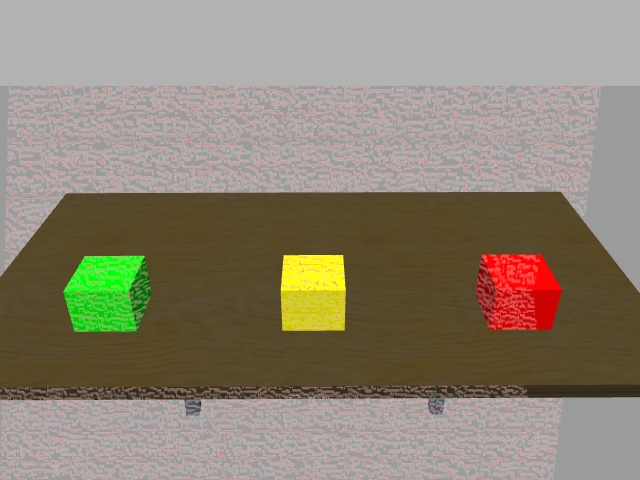
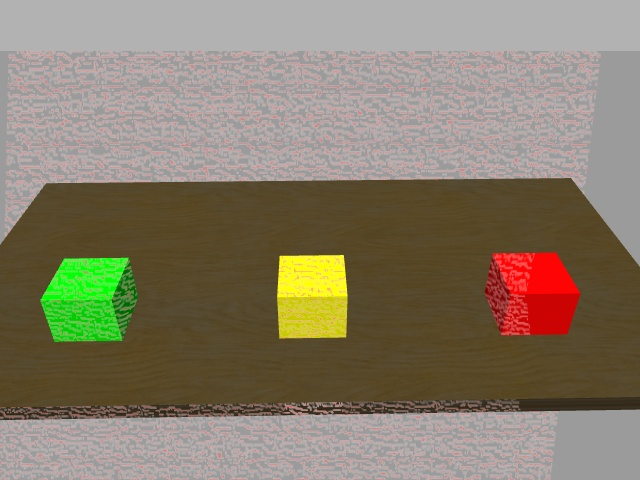
真上から見た飾り画像を生成

diff --git a/pix2pix/make_deco_imgs.py b/pix2pix/make_deco_imgs.py
@@ -1,39 +1,50 @@
-"""
-('lt: ', 1932.3476365247489, 998.372717774108, 1784.875143483393)
-('rb: ', 1927.2403589830274, -1261.042495069667, 39.911393436548224)
-('head_angle: ', 29.662153031493034)
-('look_at_point: ', x: 1180.10895533
-y: -181.063904022
-z: 654.224529006)
+"""s
+... thinking decoration ...
+Back Img info->
+('lt: ', 1932.3653923846878, 998.3951007831643, 1784.9823432069206)
+('rb: ', 1927.2010199713968, -1260.9923844731593, 40.04882008628147)
+('head_angle: ', 32.31637692749683)
+('look_at_point: ', x: 1068.30170515
+y: -172.769141042
+z: 653.992004864)
+('look_at_uv: ', x: 312.801434704
+y: 292.505059252
+z: 0.0)
+('dimg_rect_pos: ', array([x: 2147.39202783
+y: 672.95587784
+z: 1076.35317635,
+       x: 886.685198837
+y: -1078.03702755
+z: 4.57065396599], dtype=object))
 = decos_pos
-[x: 1117.07664006
-y: -678.027945277
-z: 654.235697998
- x: 1253.48854073
-y: 310.8842684
-z: 654.134191761
- x: 1185.31627926
-y: -182.925776119
-z: 654.475951655]
+[x: 1006.33938725
+y: -667.517274584
+z: 653.77801336
+ x: 1136.28470115
+y: 321.170410664
+z: 653.814447653
+ x: 1071.88769772
+y: -173.292084519
+z: 653.996440072]
 = decos_dims
-[x: 211.495101452
-y: 210.085630417
-z: 89.1058444977
- x: 211.82730794
-y: 208.705306053
-z: 89.1456007957
- x: 151.7547369
-y: 152.527987957
-z: 89.241206646]
-= decos_req_uv
+[x: 211.286127567
+y: 207.858324051
+z: 89.3031358719
+ x: 211.575657129
+y: 207.611441612
+z: 89.3883705139
+ x: 151.288926601
+y: 152.40624547
+z: 89.7635817528]
+= decos_rec_uv
 [ header: 
   seq: 0
   stamp: 
     secs: 0
     nsecs:         0
   frame_id: ''
-xs: [463.5361633300781, 541.403564453125, 490.3731384277344, 575.0953979492188]
-ys: [251.89376831054688, 245.59803771972656, 332.85540771484375, 324.47265625]
+xs: [473.3926696777344, 555.76123046875, 510.2060852050781, 603.1673583984375]
+ys: [250.5164794921875, 243.0118408203125, 308.7667541503906, 299.02618408203125]
 type: 0
 label: ''
 fit_line: False
@@ -44,8 +55,8 @@ fit_line_ransac: False
     secs: 0
     nsecs:         0
   frame_id: ''
-xs: [70.7800521850586, 155.0377655029297, 59.7741813659668, 152.2384796142578]
-ys: [253.37588500976562, 247.0721435546875, 334.9308166503906, 326.5277404785156]
+xs: [49.51151657104492, 140.52293395996094, 26.32427215576172, 130.5523681640625]
+ys: [255.45819091796875, 247.78318786621094, 315.3082580566406, 305.3094787597656]
 type: 0
 label: ''
 fit_line: False
@@ -56,8 +67,8 @@ fit_line_ransac: False
     secs: 0
     nsecs:         0
   frame_id: ''
-xs: [279.44622802734375, 339.48834228515625, 286.2708435058594, 349.6729736328125]
-ys: [258.05303955078125, 253.30751037597656, 324.44281005859375, 318.5474853515625]
+xs: [275.5888671875, 340.2502746582031, 281.9150390625, 352.7976379394531]
+ys: [259.103271484375, 253.34063720703125, 301.0009460449219, 294.0481872558594]
 type: 0
 label: ''
 fit_line: False
@@ -70,23 +81,25 @@ import numpy as np
 
 class MakeDecoImgs(object):
     def __init__(self):
-        self.bimg_lt_3d_pos = [1932.3476365247489, 998.372717774108, 1784.875143483393]
-        self.bimg_rb_3d_pos = [1927.2403589830274, -1261.042495069667, 39.911393436548224]
-        self.head_angle = 29.662153031493034
-        self.look_at_point = [1180.10895533, -181.063904022, 654.224529006]
-        self.deco_3d_pos = [[1117.07664006, -678.027945277, 654.235697998],
-                            [1253.48854073, 310.8842684, 654.134191761],
-                            [1185.31627926, -182.925776119, 654.475951655]]
-        self.decos_3d_dims = [[211.495101452, 210.085630417, 89.1058444977],
-                              [211.82730794, 208.705306053, 89.1456007957],
-                              [151.7547369, 152.527987957, 89.241206646]]
-
-        self.deco0_xs = [463.5361633300781, 541.403564453125, 490.3731384277344, 575.0953979492188]
-        self.deco0_ys = [251.89376831054688, 245.59803771972656, 332.85540771484375, 324.47265625]
-        self.deco1_xs = [70.7800521850586, 155.0377655029297, 59.7741813659668, 152.2384796142578]
-        self.deco1_ys = [253.37588500976562, 247.0721435546875, 334.9308166503906, 326.5277404785156]
-        self.deco2_xs = [279.44622802734375, 339.48834228515625, 286.2708435058594, 349.6729736328125]
-        self.deco2_ys = [258.05303955078125, 253.30751037597656, 324.44281005859375, 318.5474853515625]
+        self.bimg_lt_3d_pos = [1932.3653923846878, 998.3951007831643, 1784.9823432069206]
+        self.bimg_rb_3d_pos = [1927.2010199713968, -1260.9923844731593, 40.04882008628147]
+        self.head_angle = 32.31637692749683
+        self.look_at_point = [1068.30170515, -172.769141042, 653.992004864]
+        self.look_at_uv = [312.801434704, 292.505059252, 0.0]
+        self.dimg_lt_3d = [2147.39202783, 672.95587784, 1076.35317635]
+        self.dimg_rb_3d = [886.685198837, -1078.03702755, 4.57065396599]
+        self.deco_3d_pos = [[1006.33938725, -667.517274584, 653.77801336],
+                            [1136.28470115, 321.170410664, 653.814447653],
+                            [1071.88769772, -173.292084519, 653.996440072]]
+        self.decos_3d_dims = [[211.286127567, 207.858324051, 89.3031358719],
+                              [211.575657129, 207.611441612, 89.3883705139],
+                              [151.288926601, 152.40624547, 89.7635817528]]
+        self.deco0_xs = [473.3926696777344, 555.76123046875, 510.2060852050781, 603.1673583984375]
+        self.deco0_ys = [250.5164794921875, 243.0118408203125, 308.7667541503906, 299.02618408203125]
+        self.deco1_xs = [49.51151657104492, 140.52293395996094, 26.32427215576172, 130.5523681640625]
+        self.deco1_ys = [255.45819091796875, 247.78318786621094, 315.3082580566406, 305.3094787597656]
+        self.deco2_xs = [275.5888671875, 340.2502746582031, 281.9150390625, 352.7976379394531]
+        self.deco2_ys = [259.103271484375, 253.34063720703125, 301.0009460449219, 294.0481872558594]
 
         self.back_img = cv2.imread("img_from_gazebo/input.png")
         self.decos_img = cv2.imread("img_from_gazebo/decos_img.jpg")
@@ -152,42 +165,74 @@ class MakeDecoImgs(object):
         input_pos = np.ones((1, 4))
         input_pos[0][:3] = xyz_array - self.camera_pos
         output_pos = np.matmul(np.linalg.inv(self.R_matrix), input_pos.T)
-        return output_pos[:3]
+        return np.array(output_pos[:3])
     
     def camera_3d_to_2d(self, xyz_array):
+        # robot x, y -> img -y, -x
         x = int(-1 * xyz_array[1])
         y = int(xyz_array[0])
-        return [x, y]
-    
-    def convert_img(self):
-        # robot x, y -> img -y, -x
+        return np.array([x, y])
+
+    def convert_img_all(self):
         """
         convert the image to one viewed from the camera directly above
         world -> camera
             self.world_to_camera_pos(input_pos)
         camera -> world
-            center_pos = np.matmul(np.linalg.inv(self.R_matrix), input_pos.T)
+            center_pos = np.matmul(self.R_matrix, input_pos.T)
         """
-        world_lt = self.look_at_point + np.array([240, 360, 0])
-        world_rt = self.look_at_point + np.array([240, -360, 0])
-        world_lb = self.look_at_point + np.array([-240, 360, 0])
-        world_rb = self.look_at_point + np.array([-240, -360, 0])
-        camera_lt = self.world_to_camera_pos(world_lt)
-        camera_rt = self.world_to_camera_pos(world_rt)
-        camera_lb = self.world_to_camera_pos(world_lb)
-        camera_rb = self.world_to_camera_pos(world_rb)
-        img_rt = self.camera_3d_to_2d(camera_rt - camera_lt)
-        img_lb = self.camera_3d_to_2d(camera_lb - camera_lt)
-        img_rb = self.camera_3d_to_2d(camera_rb - camera_lt)
+        camera_lt = self.world_to_camera_pos(self.dimg_lt_3d)
+        camera_rb = self.world_to_camera_pos(self.dimg_rb_3d)
+        center_pos = self.world_to_camera_pos(self.look_at_point)
+        img_lt = self.camera_3d_to_2d(camera_lt) + np.array(self.look_at_uv[:2])
+        img_rt = np.array([img_lt[0] * -1, img_lt[1]]) + np.array(self.look_at_uv[:2])
+        img_rb = self.camera_3d_to_2d(camera_rb) + np.array(self.look_at_uv[:2])
+        img_lb = np.array([img_rb[0] * -1, img_rb[1]]) + np.array(self.look_at_uv[:2])
+        print(center_pos)
+        print(camera_lt)
+        print(camera_rb)
+        print("")
+        print(img_lt)
         print(img_rt)
-        print(img_lb)
         print(img_rb)
+        print(img_lb)
 
-        pts1 = np.float32([[0, 0], img_rt, img_lb, img_rb])
+        pts1 = np.float32([img_lt, img_rt, img_lb, img_rb])
         pts2 = np.float32([[0, 0], [640, 0], [0, 480], [640, 480]])
         self.M_matrix = cv2.getPerspectiveTransform(pts1,pts2)
         decos_img_trans = cv2.warpPerspective(self.decos_img, self.M_matrix, (640,480))
         cv2.imwrite("img_from_gazebo/decos_convert_img.jpg", decos_img_trans)
+
+    def convert_img_deco(self):
+        decos_3d_pos = self.deco_3d_pos[0]
+        decos_3d_dims = self.decos_3d_dims[0]
+        xs = self.deco0_xs
+        ys = self.deco0_ys
+        lt, lb, rt, rb = self.reorder_point(xs, ys)
+        H = int(decos_3d_dims[0])
+        W = int(decos_3d_dims[1])
+        pts1 = np.float32([lt, rt, lb, rb])
+        pts2 = np.float32([[0, 0], [W, 0], [0, H], [W, H]])
+        self.M_matrix = cv2.getPerspectiveTransform(pts1, pts2)
+        decos_img_trans = cv2.warpPerspective(self.decos_img, self.M_matrix, (W, H))
+        cv2.imwrite("img_from_gazebo/decos_convert_img.jpg", decos_img_trans)
+
+    def convert_img_size(self):  #, deco_3d_dims):
+        img = cv2.imread("img_from_gazebo/decos_convert_img.jpg")
+        H, W, C = img.shape
+        decos_3d_dims = self.decos_3d_dims[0]
+        bimg_width = self.bimg_lt_3d_pos[1] - self.bimg_rb_3d_pos[1]
+        bimg_height = self.bimg_lt_3d_pos[2] - self.bimg_rb_3d_pos[2]
+        ratio_w = decos_3d_dims[1] / bimg_width
+        ratio_h = decos_3d_dims[0] / bimg_height
+        deco_w = int(640 * ratio_w)
+        deco_h = int(480 * ratio_h)
+        dst = cv2.resize(img, dsize=(deco_w, deco_h))
+        cv2.imwrite("img_from_gazebo/decos_convert_img.jpg", dst)
+
+        # make mask img
+        img_white = np.ones((deco_w, deco_h), np.uint8) * 255
+        cv2.imwrite("img_from_gazebo/mask.jpg", img_white)
 
     def convert_rect_pos(self):
         for i in range(len(self.deco0_xs)):
@@ -211,15 +256,9 @@ class MakeDecoImgs(object):
         right = int(max(xs_lst))
         bottom = int(max(ys_lst))
         return img[up: bottom, left: right, :]
-    
-    def mask_img(self):
-        print("ToDo")
 
 make_deco_imgs = MakeDecoImgs()
 make_deco_imgs.debug_draw_deco_rect(make_deco_imgs.decos_img)
 make_deco_imgs.make_rotation_matrix()
-make_deco_imgs.convert_img()
-make_deco_imgs.convert_rect_pos()
-converted_img = cv2.imread("img_from_gazebo/decos_convert_img.jpg")
-img = make_deco_imgs.clip_img(converted_img, make_deco_imgs.deco0_xs, make_deco_imgs.deco0_ys)
-cv2.imwrite("img_from_gazebo/output.jpg", img)
+make_deco_imgs.convert_img_deco()
+make_deco_imgs.convert_img_size()
